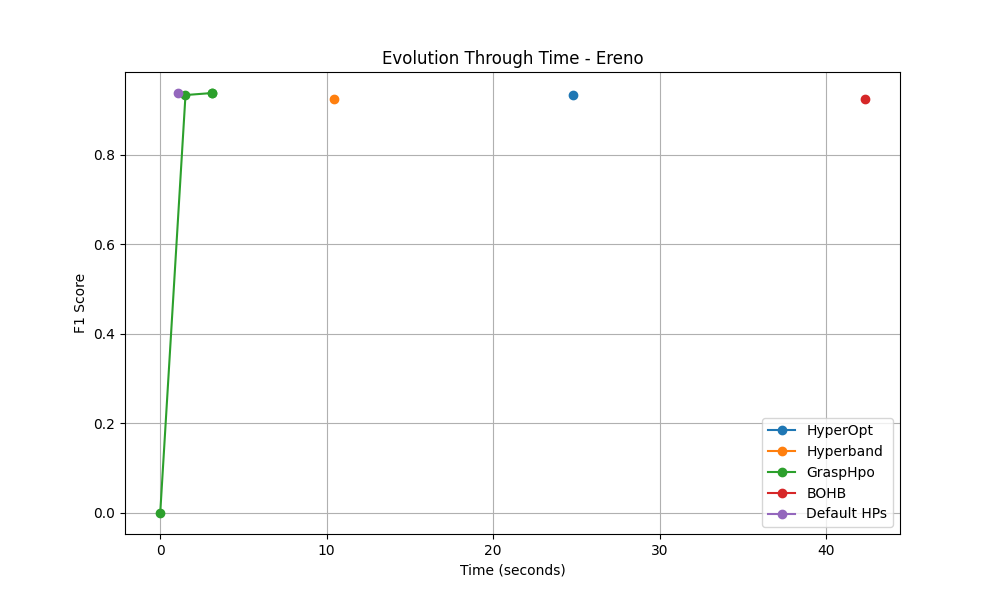
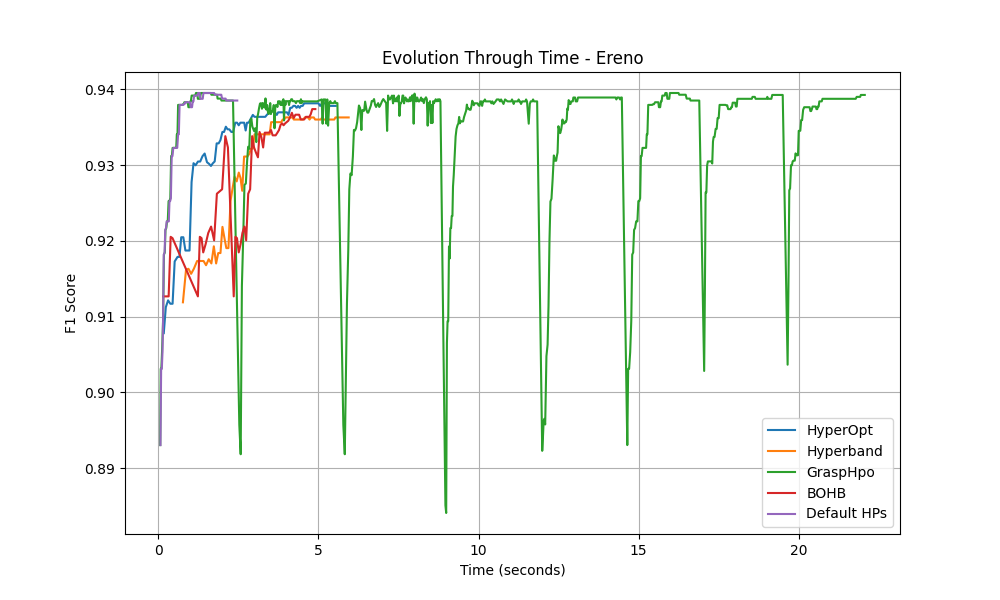
Revert "Revert "Feature/grasp evolution by round""

diff --git a/src/hpo/grasp/phase2grasp.py b/src/hpo/grasp/phase2grasp.py
@@ -37,8 +37,6 @@ class LocalSearch:
         f1_scores_evolution = []
         time_evolution = []
 
-        tmp_score = 0
-
         while not intermed_best_sols.empty():
             if time.time() - phase_start_time > self.timelimit:
                 break
@@ -46,26 +44,23 @@ class LocalSearch:
             cur = intermed_best_sols.get()
 
             if verbose: print('LS iteration {}: \nBest solution after phase 1: {}\nCorresponding score: {}'.format(iter, cur[2], cur[0]))
-            tmp_score, tmp_sol = self.hill_climb(cur[2], x_train, x_test, y_train, y_test, phase_start_time)
+            tmp_score, tmp_sol = self.hill_climb(cur[2], x_train, x_test, y_train, y_test, phase_start_time, start_time, f1_scores_evolution, time_evolution)
             if verbose: print('LS iteration {}: \nBest solution after phase 2: {}\nCorresponding score: {}\n'.format(iter, tmp_sol, tmp_score))
 
             if tmp_score > local_best_score:
-                f1_scores_evolution.append(tmp_score)
-                time_evolution.append(time.time() - start_time)
                 local_best_score = tmp_score
                 local_best_sol = tmp_sol
                 if verbose: print('After LS iteration {}: LS found neighbor solution w/ higher f-1 mean than phase 1'.format(iter, local_best_sol, local_best_score))
             iter += 1
 
-        time_evolution.append(time.time() - start_time)
-        f1_scores_evolution.append(tmp_score)
-
         return local_best_sol, local_best_score, f1_scores_evolution, time_evolution
 
-    def hill_climb(self, cur_sol: dict, x_train, x_test, y_train, y_test, phase_start_time):
-
+    def hill_climb(self, cur_sol: dict, x_train, x_test, y_train, y_test, phase_start_time, start_time, f1_scores_evolution, time_evolution):
         best_sol = cur_sol
-        best_score = self.evaluate(cur_sol, x_train, x_test, y_train, y_test)
+        f1_scores_per_round, round_times = self.evaluate(cur_sol, x_train, x_test, y_train, y_test, start_time)
+        f1_scores_evolution.extend(f1_scores_per_round)
+        time_evolution.extend(round_times)
+        best_score = max(f1_scores_per_round)
 
         for _ in range(self.max_iter):
 
@@ -73,8 +68,10 @@ class LocalSearch:
                 break
 
             neighbor_sol = self.generate_neighbor(cur_sol)
-            neighbor_score = self.evaluate(neighbor_sol, x_train, x_test, y_train, y_test)
-
+            neighbor_scores, neighbor_times = self.evaluate(neighbor_sol, x_train, x_test, y_train, y_test, start_time)
+            f1_scores_evolution.extend(neighbor_scores)
+            time_evolution.extend(neighbor_times)
+            neighbor_score = max(neighbor_scores)
             if neighbor_score > best_score:
                 best_sol = neighbor_sol
                 best_score = neighbor_score
@@ -88,7 +85,7 @@ class LocalSearch:
 
         neighbor = cur_solution.copy()
         for hp in neighbor.keys():
-            if hp in ['objective', 'num_class']:
+            if hp in ['objective', 'num_class', 'n_estimators']:
                 continue
 
             plus_minus = (self.hp_ranges[hp][1] - self.hp_ranges[hp][0]) * (self.margin / 2.0)

diff --git a/src/hpo/grasp/grasp_hpo.py b/src/hpo/grasp/grasp_hpo.py
@@ -1,15 +1,15 @@
 import time
+import xgboost
 import numpy as np
-from xgboost import XGBClassifier
-from sklearn.metrics import f1_score
 
+from sklearn.metrics import f1_score
 from src.hpo.hpo_strategy import HPOStrategy
 from src.hpo.grasp.phase1grasp import Construction
 from src.hpo.grasp.phase2grasp import LocalSearch
 
 
-LOCAL_SEARCH_ITERATIONS = 1
-LOCAL_SEARCH_TIMELIMIT = 1
+LOCAL_SEARCH_ITERATIONS = 2
+LOCAL_SEARCH_TIMELIMIT = 20
 BUILDING_PHASE_ITERATIONS = 1
 BUILDING_PHASE_TIMELIMIT = 20
 INTERMEDIATE_RESULTS_SIZE = 5
@@ -32,13 +32,53 @@ class GraspHpo(HPOStrategy):
         return local_best_sol, local_best_score, (f1_scores_evolution, time_evolution)
 
     @staticmethod
-    def evaluate_solution(params, x_train, x_test, y_train, y_test):
+    def evaluate_solution(params, x_train, x_test, y_train, y_test, start_time):
+        # Define the custom evaluation function inside evaluate_solution to record time of each iteration
+        class TimeEvaluationCallback(xgboost.callback.TrainingCallback):
+            def __init__(self):
+                super().__init__()
+                self.times = []
+
+            def after_iteration(self, model, epoch, evals_log):
+                current_time = time.time()
+                self.times.append(current_time - start_time)
+                return False  # Return False to continue training
+
+        def evaluate_f1_score(predt: np.ndarray, dtrain: xgboost.DMatrix) -> np.ndarray:
+            """Compute the f1 score"""
+            y = dtrain.get_label()
+            if len(np.unique(y)) == 2:
+                threshold = 0.5
+                binary_preds = [1 if p > threshold else 0 for p in predt]
+                f1 = f1_score(y, binary_preds, average="weighted")
+            else:
+                f1 = f1_score(y, np.argmax(predt, axis=1), average="weighted") if predt.ndim > 1 else f1_score(y, predt, average="weighted")
+            return "f1_score", f1
+
         class_quantity = len(np.unique(y_train))
         if class_quantity > 2:
             params["objective"] = "multi:softmax"
-            params["num_class"] = str(class_quantity)
+            params["num_class"] = class_quantity
 
-        xgboost_classifier = XGBClassifier(**params)
-        xgboost_classifier.fit(x_train, y_train)
-        y_pred = xgboost_classifier.predict(x_test)
-        return f1_score(y_test, y_pred, average='weighted')
+        train_set = xgboost.DMatrix(data=x_train, label=y_train)
+        test_set = xgboost.DMatrix(data=x_test, label=y_test)
+
+        evals_result = {}
+
+        time_callback = TimeEvaluationCallback()
+
+        xgboost.train(
+            params,
+            train_set,
+            evals=[(test_set, "eval")],
+            verbose_eval=False,
+            custom_metric=evaluate_f1_score,
+            num_boost_round=100,
+            evals_result=evals_result,
+            callbacks=[time_callback]
+        )
+        round_times = time_callback.times
+
+        f1_scores_per_round = evals_result['eval']['f1_score']
+
+        return f1_scores_per_round, round_times

diff --git a/src/hpo/benchmark/default.py b/src/hpo/benchmark/default.py
@@ -1,6 +1,6 @@
 from sklearn.metrics import f1_score
 import numpy as np
-from xgboost import XGBClassifier
+import xgboost
 
 from src.hpo.hpo_strategy import HPOStrategy
 import time
@@ -9,14 +9,55 @@ import time
 class Default(HPOStrategy):
     def hyperparameter_optimization(self,  x_train, x_test, y_train, y_test, search_space):
         start_time = time.time()
+
+        # Define the custom evaluation function inside evaluate_solution to record time of each iteration
+        class TimeEvaluationCallback(xgboost.callback.TrainingCallback):
+            def __init__(self):
+                super().__init__()
+                self.times = []
+
+            def after_iteration(self, model, epoch, evals_log):
+                current_time = time.time()
+                self.times.append(current_time - start_time)
+                return False  # Return False to continue training
+
+        def evaluate_f1_score(predt: np.ndarray, dtrain: xgboost.DMatrix) -> np.ndarray:
+            """Compute the f1 score"""
+            y = dtrain.get_label()
+            if len(np.unique(y)) == 2:
+                threshold = 0.5
+                binary_preds = [1 if p > threshold else 0 for p in predt]
+                f1 = f1_score(y, binary_preds, average="weighted")
+            else:
+                f1 = f1_score(y, np.argmax(predt, axis=1), average="weighted") if predt.ndim > 1 else f1_score(y, predt,
+                                                                                                               average="weighted")
+            return "f1_score", f1
+
         params = {}
         class_quantity = len(np.unique(y_train))
         if class_quantity > 2:
             params["objective"] = "multi:softmax"
-            params["num_class"] = str(class_quantity)
+            params["num_class"] = class_quantity
 
-        xgboost_classifier = XGBClassifier(**params)
-        xgboost_classifier.fit(x_train, y_train)
-        y_pred = xgboost_classifier.predict(x_test)
-        score = f1_score(y_test, y_pred, average='weighted')
-        return params, f1_score(y_test, y_pred, average='weighted'), ([score], [time.time() - start_time])
+        train_set = xgboost.DMatrix(data=x_train, label=y_train)
+        test_set = xgboost.DMatrix(data=x_test, label=y_test)
+
+        evals_result = {}
+
+        time_callback = TimeEvaluationCallback()
+
+        xgboost.train(
+            params,
+            train_set,
+            evals=[(test_set, "eval")],
+            verbose_eval=False,
+            custom_metric=evaluate_f1_score,
+            num_boost_round=100,
+            evals_result=evals_result,
+            callbacks=[time_callback]
+        )
+        round_times = time_callback.times
+
+        f1_scores_per_round = evals_result['eval']['f1_score']
+
+        return params, max(f1_scores_per_round), (f1_scores_per_round, round_times)

diff --git a/src/hpo/grasp/phase1grasp.py b/src/hpo/grasp/phase1grasp.py
@@ -37,10 +37,10 @@ class Construction:
         # print('\nStarting building phase...')
         best_intermediate_combinations = PriorityQueue()
 
-        f1_score = self.evaluate(DEFAULT_HYPERPARAMETERS, x_train, x_test, y_train, y_test)
-        best_intermediate_combinations.put((f1_score, uuid.uuid4(), DEFAULT_HYPERPARAMETERS))
-        f1_scores_evolution = [0]
-        time_evolution = [0]
+        f1_scores, times = self.evaluate(DEFAULT_HYPERPARAMETERS, x_train, x_test, y_train, y_test, start_time)
+        best_intermediate_combinations.put((f1_scores[-1], uuid.uuid4(), DEFAULT_HYPERPARAMETERS))
+        f1_scores_evolution = f1_scores
+        time_evolution = times
         for i in range(self.max_iter):
             if time.time() - start_time > self.timelimit:
                 break
@@ -59,13 +59,12 @@ class Construction:
                 "gamma":  self.get_random_hyperparameter_value('gamma', search_space['gamma'])
             }
 
-            f1_score = self.evaluate(selected_hyperparameters, x_train, x_test, y_train, y_test)
+            f1_scores, times = self.evaluate(selected_hyperparameters, x_train, x_test, y_train, y_test, start_time)
 
-            if f1_score > f1_scores_evolution[-1]:
-                f1_scores_evolution.append(f1_score)
-                time_evolution.append(time.time() - start_time)
+            f1_scores_evolution.extend(f1_scores)
+            time_evolution.extend(times)
 
-            best_intermediate_combinations.put((f1_score, uuid.uuid4(), selected_hyperparameters))
+            best_intermediate_combinations.put((f1_scores[-1], uuid.uuid4(), selected_hyperparameters))
             if best_intermediate_combinations.qsize() > self.intermediate_results_size:
                 best_intermediate_combinations.get()
 

diff --git a/src/output/chart_builder.py b/src/output/chart_builder.py
@@ -9,14 +9,14 @@ def plot_final_metrics(data, save_path):
     fig, (ax1, ax2) = plt.subplots(1, 2, figsize=(14, 6))
 
     f1_score_df = df.pivot(index="input", columns="hpo_strategy", values="f1_score")
-    f1_score_df.plot(kind="line", ax=ax1, marker='o', linestyle='dashed')
+    f1_score_df.plot(kind="line", ax=ax1, linestyle='dashed')
     ax1.set_ylabel("F1 Score")
     ax1.set_xlabel("Dataset")
     ax1.set_title("F1 Score Comparison: GRASP vs. Hyperband")
     ax1.legend(title="HPO Strategy results")
 
     time_df = df.pivot(index="input", columns="hpo_strategy", values="evaluation_time")
-    time_df.plot(kind="line", ax=ax2, marker='o')
+    time_df.plot(kind="line", ax=ax2)
     ax2.set_ylabel("Evaluation Time (s)")
     ax2.set_xlabel("Dataset")
     ax2.set_title("Evaluation Time Comparison: GRASP vs. Hyperband")
@@ -37,7 +37,7 @@ def plot_evolution_through_time(data, dataset_names, output_path):
         for item in data:
             if item['input'] == dataset_name:
                 strategy, f1_scores, times = item["hpo_strategy"], item["evolution_through_time"][0], item["evolution_through_time"][1]
-                plt.plot(times, f1_scores, marker='o', label=f"{strategy}")
+                plt.plot(times, f1_scores, label=f"{strategy}")
 
         plt.title(f'Evolution Through Time - {dataset_name}')
         plt.xlabel('Time (seconds)')

diff --git a/src/main.py b/src/main.py
@@ -37,11 +37,13 @@ class Main:
 
     @staticmethod
     def main():
-        dataset_names = ['Ereno', 'Breast Cancer', 'Digits', 'Iris', 'Wine']
+        dataset_names = ['Breast Cancer', 'Digits', 'Iris', 'Wine', 'Ereno']
         # dataset_names = ['Breast Cancer', 'Digits', 'Iris', 'Wine']
         # dataset_names = ['Ereno']
         strategies = ['HyperOpt', 'Hyperband', 'GraspHpo', 'BOHB', 'Default HPs']
         # strategies = ['GraspHpo']
+        # strategies = ['BOHB']
+        # strategies = ['Default HPs']
 
         data_final_metrics = []
         data_evolution = []
@@ -50,6 +52,7 @@ class Main:
             dataset = DatasetFactory.load_dataset(dataset_name)
 
             for strategy in strategies:
+                print('Dataset: ', dataset_name, '\nStrategy: ', strategy)
                 f1_score, evaluation_time, evolution_through_time = Main.evaluate_hpo(strategy, dataset)
                 data_final_metrics.append({
                     "input": dataset_name,
